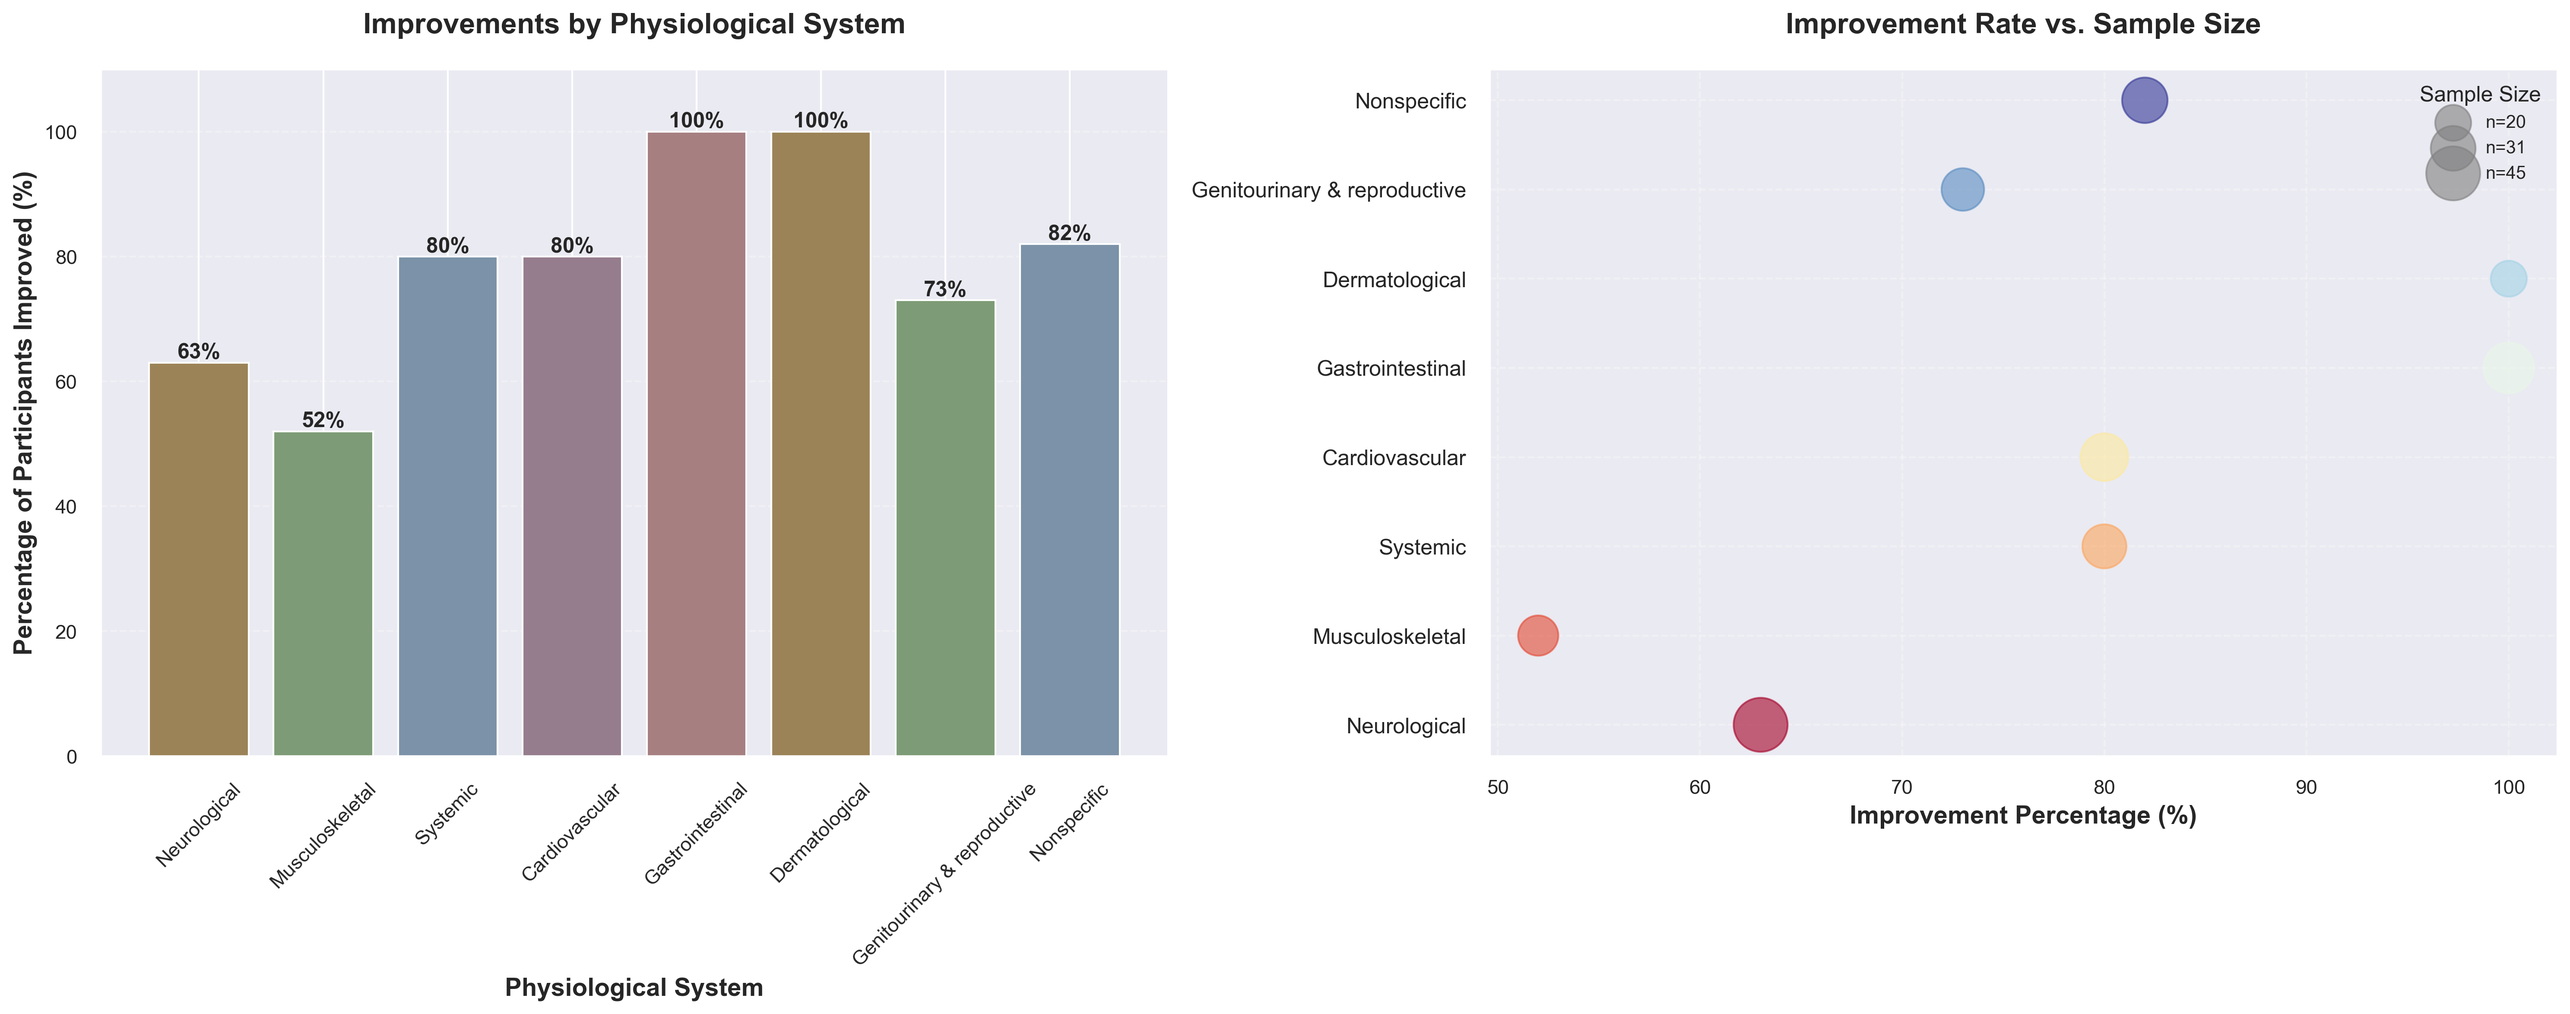
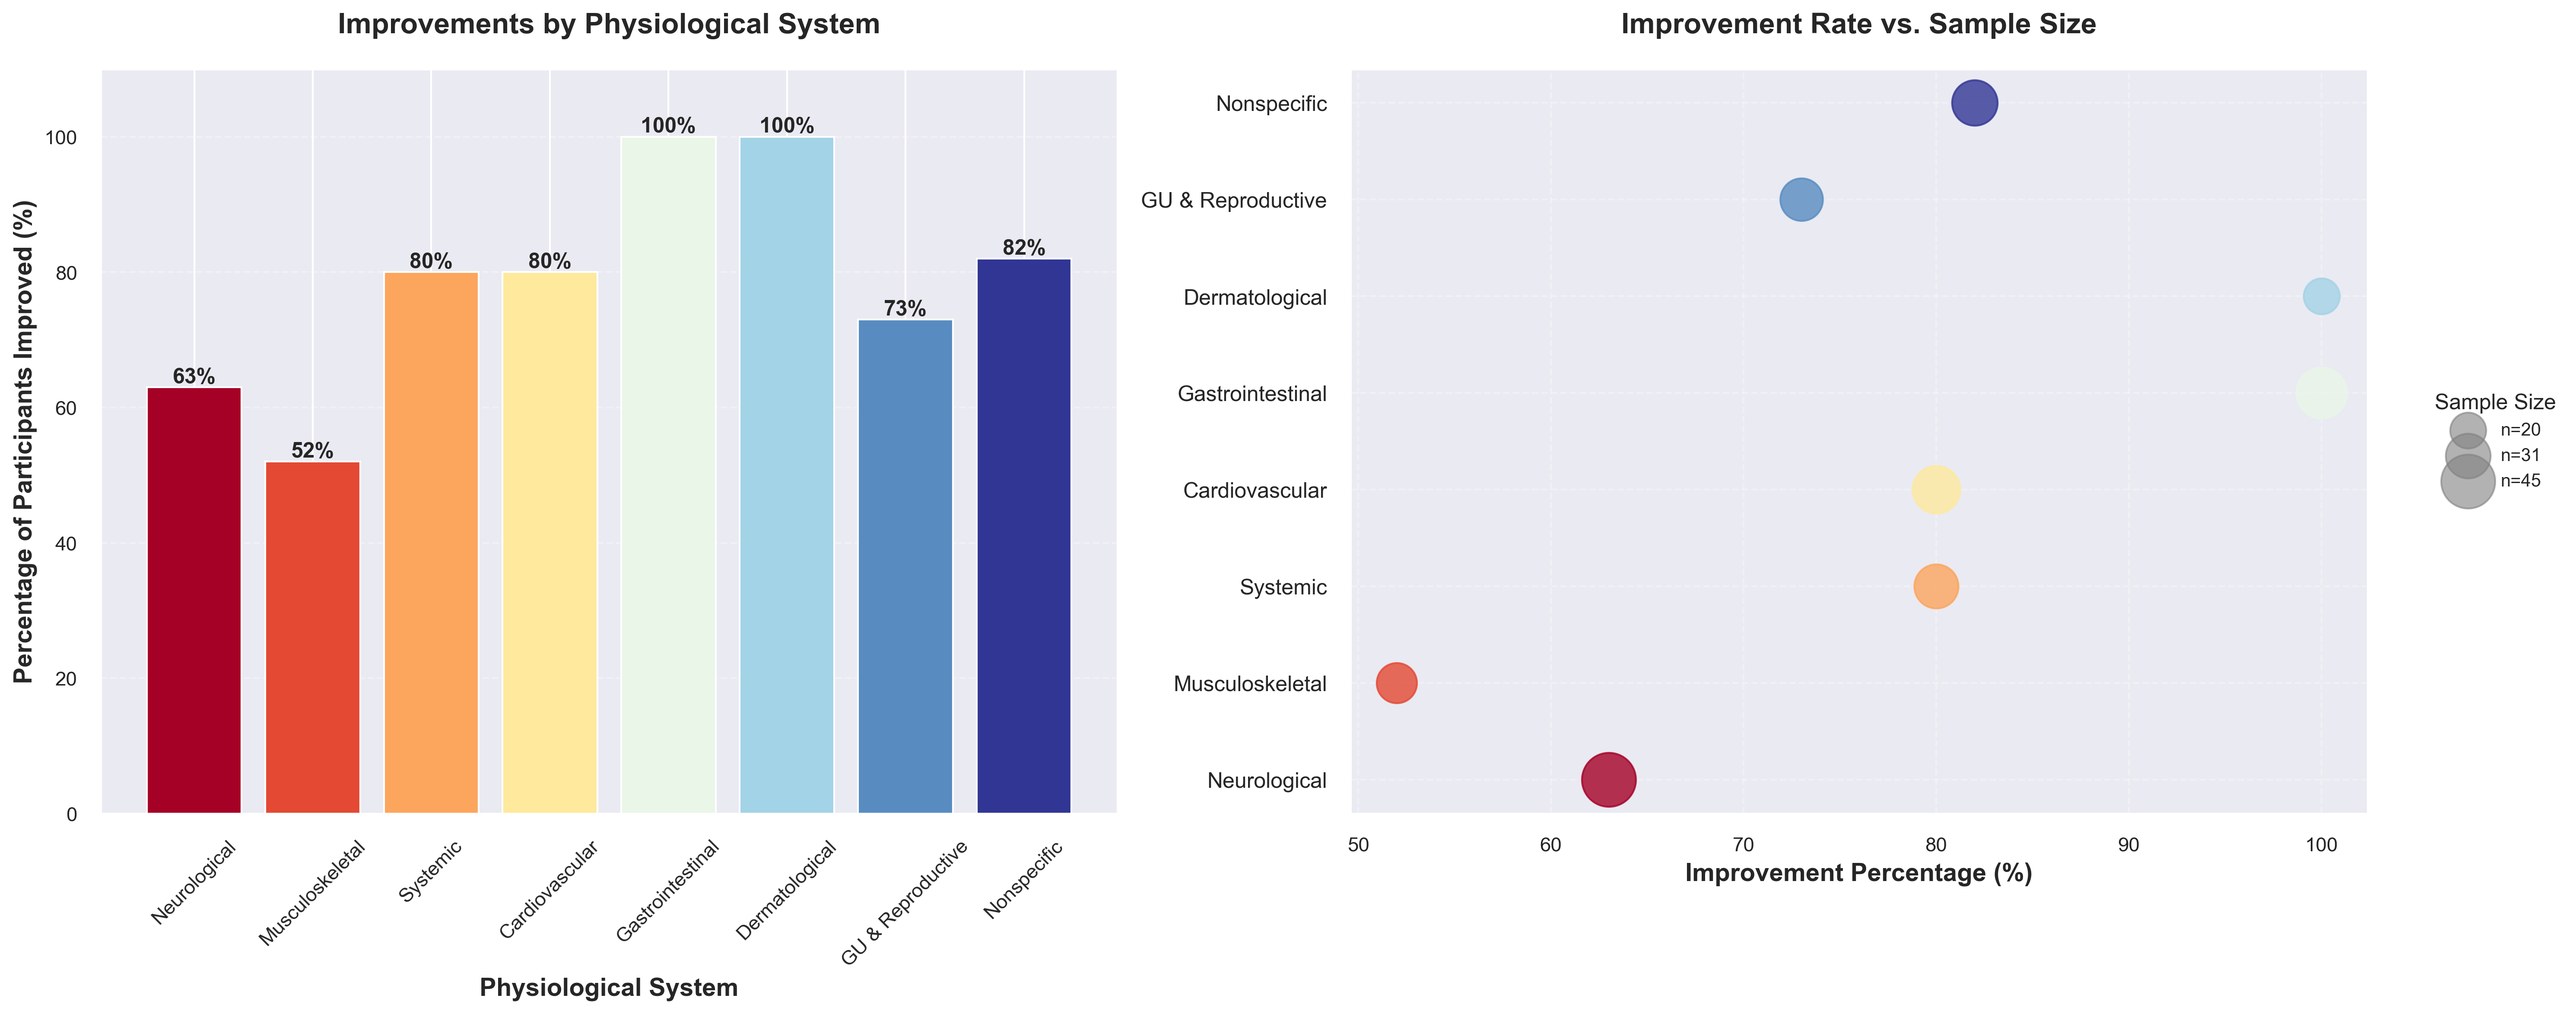
Update visualisations with consistent colours and improved layout. Update README.

diff --git a/visualise_data.py b/visualise_data.py
@@ -111,7 +111,7 @@ def create_system_improvements(improvements_data):
     data = {
         'System': [
             'Neurological', 'Musculoskeletal', 'Systemic', 'Cardiovascular',
-            'Gastrointestinal', 'Dermatological', 'Genitourinary & reproductive', 'Nonspecific'
+            'Gastrointestinal', 'Dermatological', 'GU & Reproductive', 'Nonspecific'
         ],
         'Improvement_Percentage': [63, 52, 80, 80, 100, 100, 73, 82],
         'Sample_Size': [45, 25, 30, 35, 40, 20, 28, 32]  # Example sample sizes
@@ -121,9 +121,12 @@ def create_system_improvements(improvements_data):
     # Create figure with two subplots side by side
     fig, (ax1, ax2) = plt.subplots(1, 2, figsize=(20, 8))
     
+    # Create colour map for consistent colours across both plots
+    num_systems = len(df['System'])
+    colours = plt.cm.RdYlBu(np.linspace(0, 1, num_systems))
+    
     # First subplot: Enhanced bar chart
-    bars = ax1.bar(df['System'], df['Improvement_Percentage'], 
-                  color=wes_colours['vintage'])
+    bars = ax1.bar(df['System'], df['Improvement_Percentage'], color=colours)
     
     # Customise first subplot
     ax1.set_title('Improvements by Physiological System', pad=20, 
@@ -146,10 +149,10 @@ def create_system_improvements(improvements_data):
     
     # Second subplot: Bubble chart
     sizes = df['Sample_Size'] * 20  # Scale the bubble sizes appropriately
-    scatter = ax2.scatter(df['Improvement_Percentage'], range(len(df)),
-                         s=sizes, alpha=0.6,
-                         c=np.arange(len(df)),
-                         cmap='RdYlBu')
+    for idx in range(len(df)):
+        ax2.scatter(df['Improvement_Percentage'].iloc[idx], idx,
+                   s=sizes.iloc[idx], alpha=0.8,
+                   color=colours[idx])
     
     # Customise second subplot
     ax2.set_title('Improvement Rate vs. Sample Size', pad=20,
@@ -164,7 +167,8 @@ def create_system_improvements(improvements_data):
                                  c='gray', alpha=0.6)
                       for size in [min(sizes), np.median(sizes), max(sizes)]]
     ax2.legend(handles=legend_elements, title='Sample Size',
-              title_fontsize=12, fontsize=10)
+              title_fontsize=12, fontsize=10, loc='center left',
+              bbox_to_anchor=(1.05, 0.5))
     
     # Add grid to second subplot
     ax2.grid(True, linestyle='--', alpha=0.3)

diff --git a/README.md b/README.md
@@ -23,11 +23,13 @@ This repository contains code for creating publication-quality visualisations fo
 ### 3. Physiological System Improvements
 ![System Improvements](system_improvements.png)
 - Dual-panel visualisation showing:
-  - Left: Bar chart of improvement percentages by system
+  - Left: Bar chart of improvement percentages by physiological system
   - Right: Bubble chart showing improvement rates vs. sample sizes
-- Colour-coded using vintage palette
-- Includes sample size information
-- Clear typography and labels
+- Consistent colour scheme across both panels for easy system tracking
+- Bubble sizes represent sample sizes
+- Enhanced typography with clear labels
+- Includes percentage labels and grid lines for easy reading
+- Optimised layout for clear data presentation
 
 ## Setup and Installation
 
@@ -81,6 +83,7 @@ The input Excel file should contain the following columns:
 
 The visualisations can be customised by modifying:
 - Colour palettes in the `wes_colours` dictionary
+- Colour maps for system improvements (using matplotlib's colour maps)
 - Figure sizes and dimensions
 - Font sizes and styles
 - Grid properties
